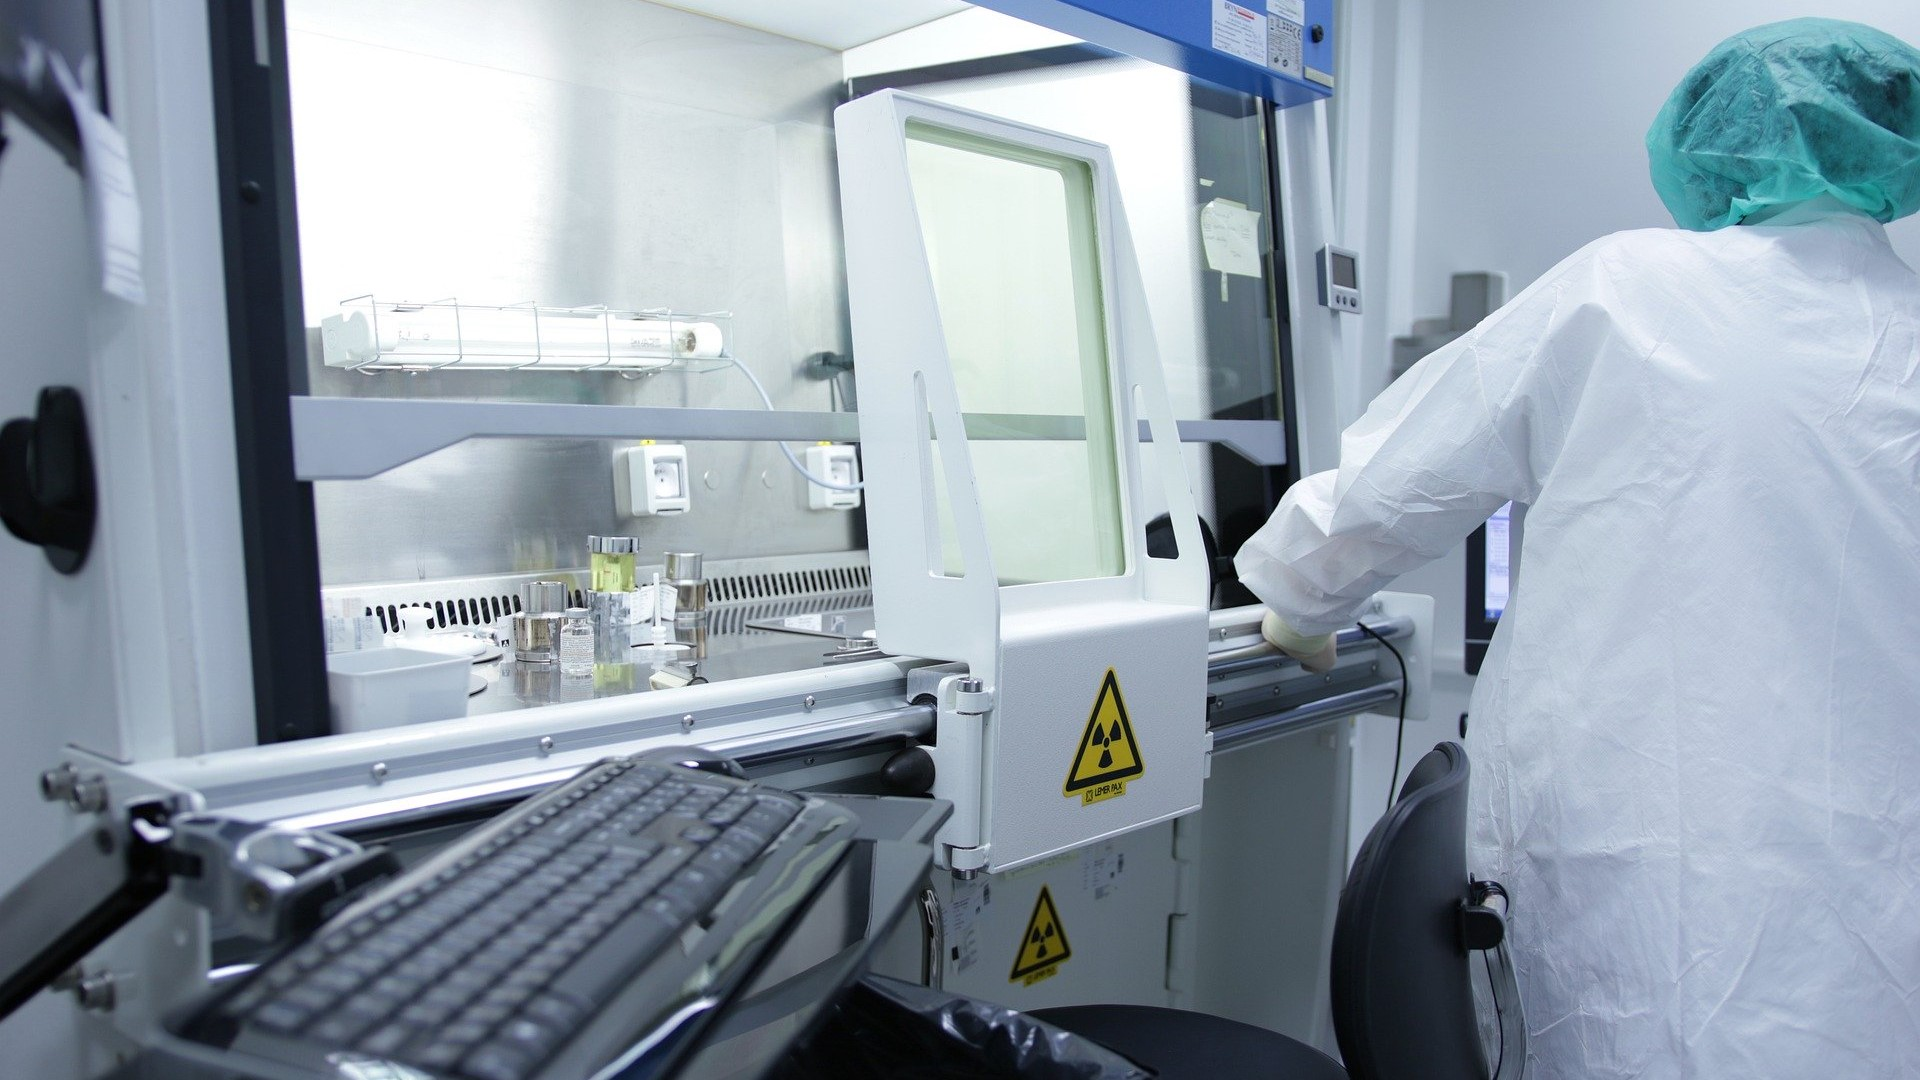
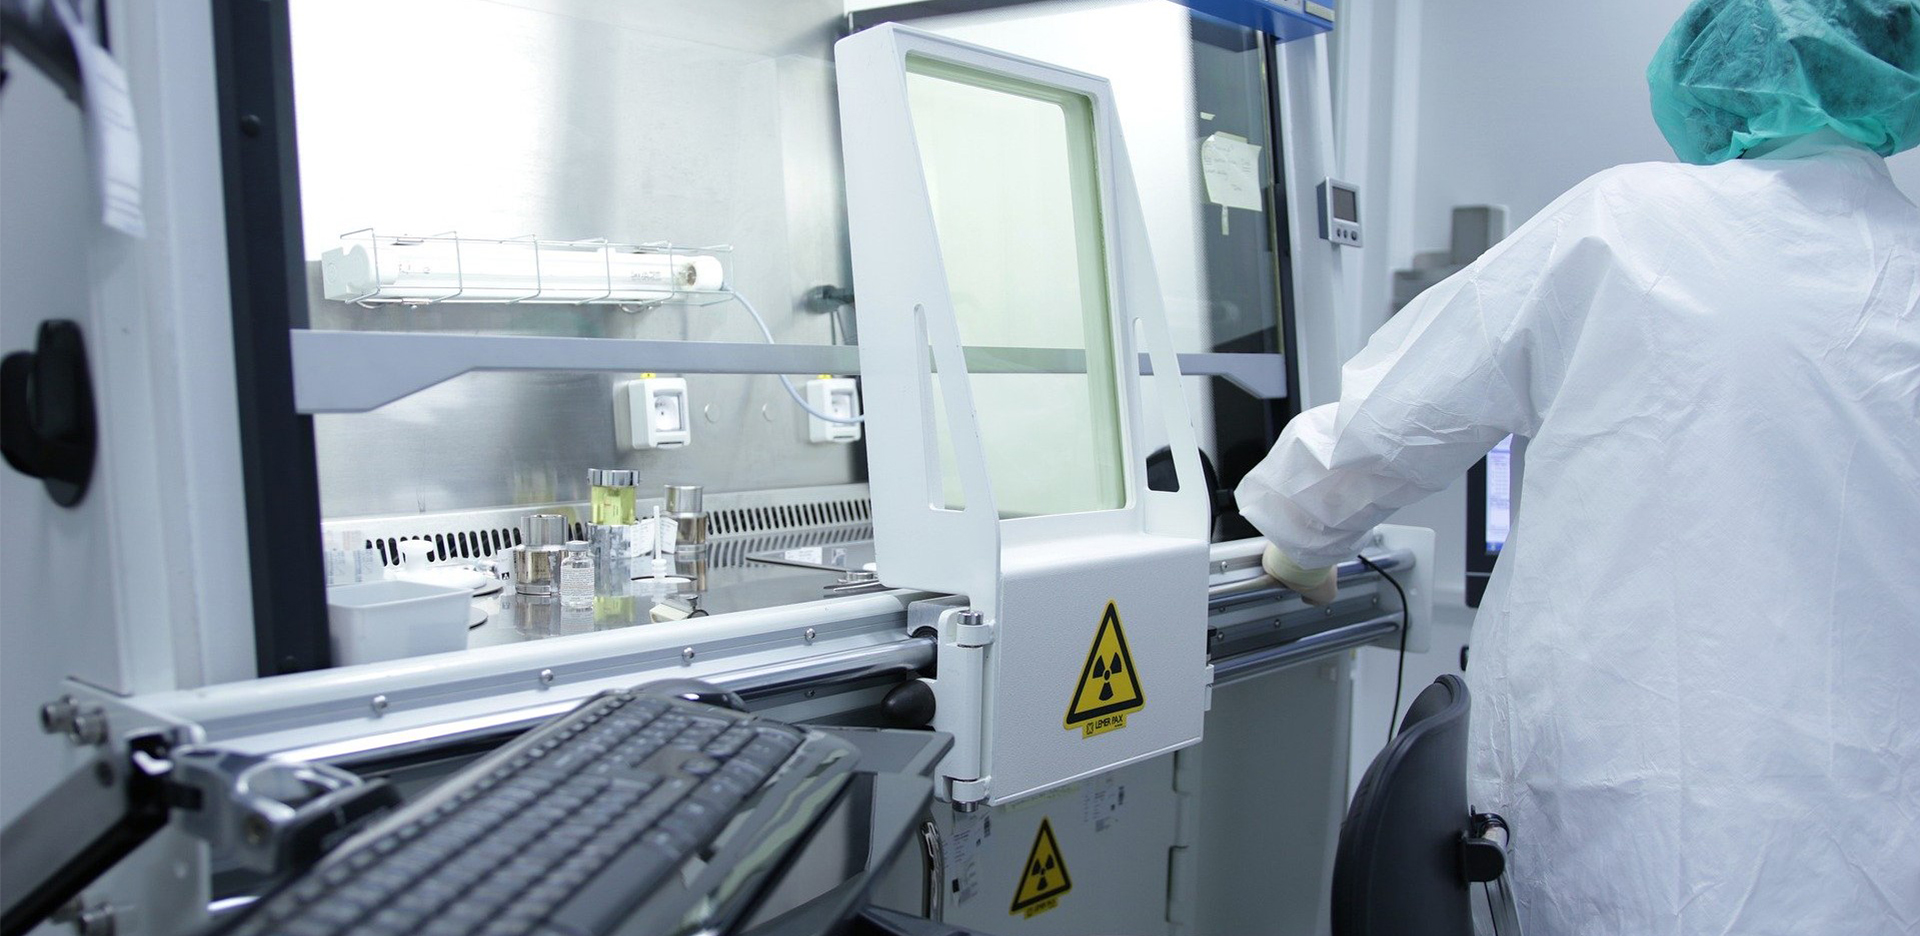
adjusted carousel

diff --git a/static/website/css/style.css b/static/website/css/style.css
@@ -6,6 +6,9 @@ html, body {
   font-family: 'Roboto', sans-serif;
   font-size: large;
 }
+html {
+  scroll-behavior: smooth;
+}
 
 /*============= NAVIGATION =============*/
 
@@ -33,7 +36,7 @@ html, body {
 /*============= CAROUSEL =============*/
 
 .carousel-inner {
-  max-height: 40rem !important;
+  max-height: 40rem!important;
 }
 
 /*---Change Carousel Transition Speed --*/

diff --git a/website/templates/home.html b/website/templates/home.html
@@ -41,7 +41,7 @@
 		<!-- End Navigation -->
 
 		<div id="carousel" class="carousel slide" data-ride="carousel"
-			data-interval="3500">
+			data-interval="3000">
 
 			<!-- Carousel Content -->
 			<div class="carousel-inner">
